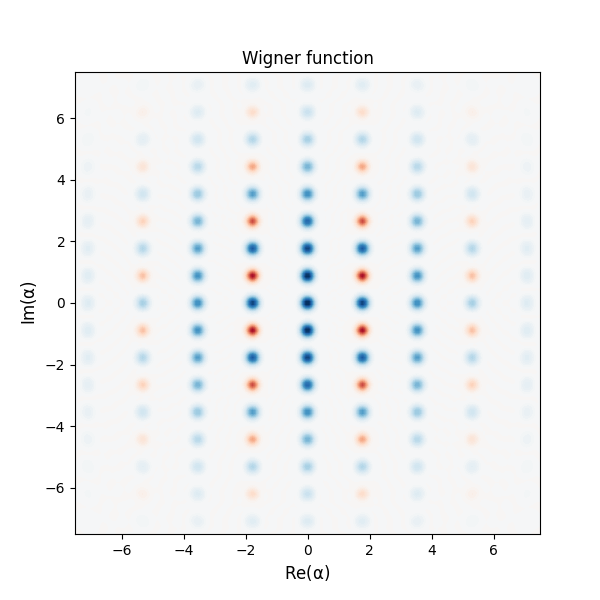
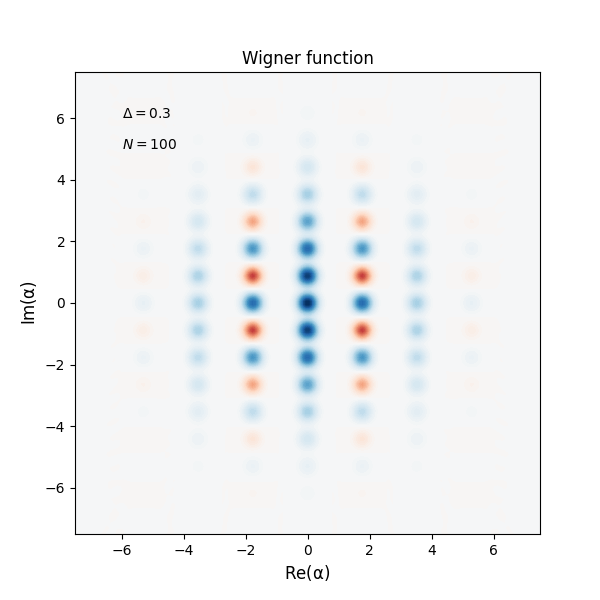
hadamar

diff --git a/stage_baptiste/projects/Wigner_test_for_finite_GKP/Wigner_test.py b/stage_baptiste/projects/Wigner_test_for_finite_GKP/Wigner_test.py
@@ -7,16 +7,34 @@ by plotting some Wigner functions.
 """
 
 import numpy as np
-import qutip as qt
+from qutip import *
 from stage_baptiste.homemades.finite_GKP import get_gkp, GKP
-from matplotlib import cm
+from scipy.constants import pi
 from matplotlib import pyplot as plt
-from mpl_toolkits.mplot3d import Axes3D
+from matplotlib.animation import FuncAnimation
 
-# delta doit être tel que 1/(2*delta^2) ~ <n>
+# oscillator
 
-delta = 0.1
-dim = 120
-gkp = GKP(delta,dim)  # gkp with delta = 0
-fig, ax = qt.plot_wigner(gkp.state,method='laguerre')
+# delta doit être tel que 1/(2*delta^2) ~ <n> ??
+
+delta = 0.3
+dim = 100
+osc = GKP(delta,dim).state  # gkp with delta = 0
+fig, ax = plot_wigner(osc,method='laguerre')
+ax.text(-6,6,rf"$\Delta = {delta}$")
+ax.text(-6,5,rf"$N = {dim}$")
 plt.savefig(f"Wigner_test_for_finite_GKP/figs/Wigner_{dim}")
+
+
+# porte Hadamar
+
+qubit = basis(2,0)  # qubit
+lam = 1e-6
+a = destroy(dim)  # produit tensoriel avec qubit
+H = lam*a.dag()*a
+tlist = np.linspace(0,pi/(4*lam),10)
+res = mesolve(H, osc, tlist, [])
+fig, ax = plot_wigner(res.states[-1])
+ax.text(-6,6,rf"$\Delta = {delta}$")
+ax.text(-6,5,rf"$N = {dim}$")
+plt.savefig(f"Wigner_test_for_finite_GKP/figs/Hadamar_{dim}")

diff --git a/stage_baptiste/homemades/finite_GKP.py b/stage_baptiste/homemades/finite_GKP.py
@@ -52,7 +52,7 @@ def get_gkp(delta, hilbert_dim, peak_range=10):
             np.exp(-js*js*2*pi) * hermite(n)(js*2*np.sqrt(pi)))  # second term of multiplication
         numerator = enveloppe*herms
         coeff = numerator/np.power(2,n/2,dtype='float')  # dividing by pieces (2**n)
-        coeff /= np.sqrt(float(math.factorial(int(n))))
+        coeff /= np.sqrt(float(math.factorial(int(n))))  # dividing by pieces (factorial)
         eigen_state = qt.fock(hilbert_dim, n)  # creating eigen_state
         state = coeff*eigen_state  # eigenstate weighted by coefficient
         coeffs.append(coeff)
